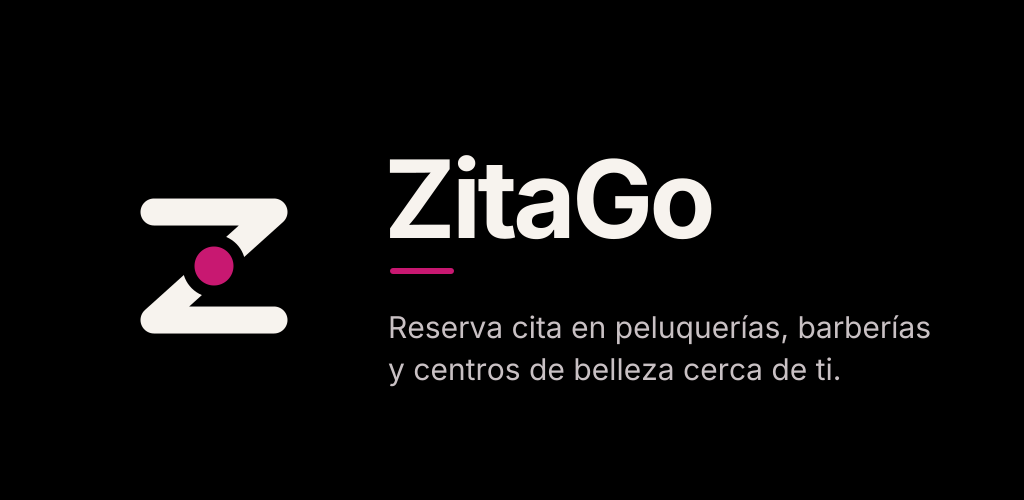
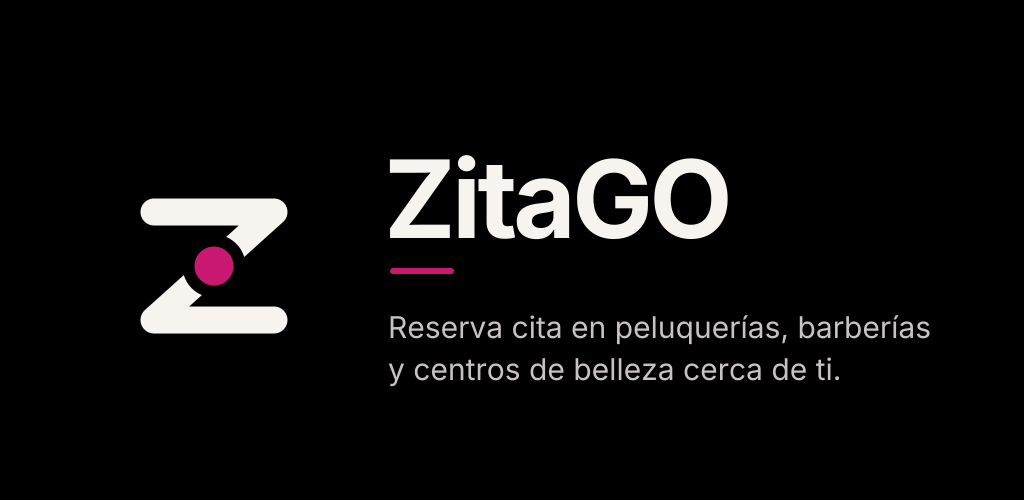
feat(brand): write the brand as ZitaGO on the landing page
The page title, header, button, copy and footer now say ZitaGO, and the
share image is the new Play feature graphic. Google Auth Platform checks
the brand name against this home page, so it changes first.

Changed region(s): [[0.625, 0.3, 0.7188, 0.48]]

diff --git a/index.html b/index.html
@@ -5,7 +5,7 @@
   <meta name="viewport" content="width=device-width, initial-scale=1">
   <!-- No scripts, no third parties: fonts and images come from this site only. -->
   <meta http-equiv="Content-Security-Policy" content="default-src 'none'; img-src 'self'; font-src 'self'; style-src 'unsafe-inline'; base-uri 'none'; form-action 'none'">
-  <title>ZitaGo · Reserva cita en peluquerías, barberías y spas</title>
+  <title>ZitaGO · Reserva cita en peluquerías, barberías y spas</title>
   <meta name="description" content="Busca la próxima hora libre de peluquerías, barberías, centros de uñas, estética y spas, y reserva al momento sin llamar.">
   <link rel="canonical" href="https://zitago.es/">
   <meta name="theme-color" content="#F7F3EE">
@@ -15,9 +15,9 @@
   <link rel="apple-touch-icon" href="apple-touch-icon.png">
   <meta property="og:type" content="website">
   <meta property="og:locale" content="es_ES">
-  <meta property="og:site_name" content="ZitaGo">
+  <meta property="og:site_name" content="ZitaGO">
   <meta property="og:url" content="https://zitago.es/">
-  <meta property="og:title" content="ZitaGo · Reserva cita en peluquerías, barberías y spas">
+  <meta property="og:title" content="ZitaGO · Reserva cita en peluquerías, barberías y spas">
   <meta property="og:description" content="Busca la próxima hora libre de cada negocio y reserva al momento, sin llamar.">
   <meta property="og:image" content="https://zitago.es/og-image.png">
   <meta property="og:image:width" content="1024">
@@ -174,13 +174,13 @@
 </head>
 <body>
   <header class="wrap top">
-    <a class="brand" href="/" aria-label="ZitaGo, inicio">
+    <a class="brand" href="/" aria-label="ZitaGO, inicio">
       <img src="favicon.svg" alt="" width="36" height="36">
-      <span>ZitaGo</span>
+      <span>ZitaGO</span>
     </a>
     <nav aria-label="Principal">
       <a class="nav-link" href="#negocios">Para negocios</a>
-      <a class="btn btn-dark btn-small" href="https://app.zitago.es/">Abrir ZitaGo</a>
+      <a class="btn btn-dark btn-small" href="https://app.zitago.es/">Abrir ZitaGO</a>
     </nav>
   </header>
 
@@ -189,7 +189,7 @@
       <div>
         <p class="kicker">Peluquería · Barbería · Uñas · Estética · Spa</p>
         <h1 id="hero-title">Busca la próxima hora libre y reserva al momento.</h1>
-        <p class="lead">ZitaGo te enseña cuándo puede atenderte cada negocio y te deja reservar en segundos, sin llamar y sin esperar a que te contesten. El servicio se paga en el negocio, como siempre.</p>
+        <p class="lead">ZitaGO te enseña cuándo puede atenderte cada negocio y te deja reservar en segundos, sin llamar y sin esperar a que te contesten. El servicio se paga en el negocio, como siempre.</p>
         <div class="actions">
           <a class="btn btn-dark" href="https://app.zitago.es/">Buscar cita</a>
           <a class="btn btn-line" href="#negocios">Tengo un negocio</a>
@@ -197,7 +197,7 @@
         <p class="fine">Funciona en el navegador del móvil y del ordenador. Las apps para Android e iPhone están en pruebas.</p>
       </div>
 
-      <div class="demo" role="img" aria-label="Ejemplo de reserva en ZitaGo: eliges una hora libre de hoy y la reserva queda confirmada.">
+      <div class="demo" role="img" aria-label="Ejemplo de reserva en ZitaGO: eliges una hora libre de hoy y la reserva queda confirmada.">
         <div class="card">
           <div class="cover"><span class="chip">Peluquería</span></div>
           <div class="card-body">
@@ -254,7 +254,7 @@
       <div class="wrap">
         <p class="kicker">Para negocios</p>
         <h2 id="business-title">Tu agenda, siempre en orden.</h2>
-        <p class="section-lead">Pon tus servicios, tu equipo y tus horarios. ZitaGo solo ofrece a tus clientes las horas que de verdad puedes atender.</p>
+        <p class="section-lead">Pon tus servicios, tu equipo y tus horarios. ZitaGO solo ofrece a tus clientes las horas que de verdad puedes atender.</p>
         <ul class="features">
           <li class="feature">
             <span class="icon"><svg viewBox="0 0 24 24"><path d="M12 3l7.5 3v6c0 4.4-3.2 8-7.5 9-4.3-1-7.5-4.6-7.5-9V6z"/><path d="M9 12l2 2 4-4"/></svg></span>
@@ -277,7 +277,7 @@
             <p>Hasta 5 negocios con la misma cuenta, cada uno con su equipo y su agenda.</p>
           </li>
         </ul>
-        <p class="reviewed"><svg viewBox="0 0 24 24"><circle cx="12" cy="12" r="9"/><path d="M8 12.2l2.8 2.8L16 9.8"/></svg>Revisamos cada negocio antes de que aparezca en ZitaGo.</p>
+        <p class="reviewed"><svg viewBox="0 0 24 24"><circle cx="12" cy="12" r="9"/><path d="M8 12.2l2.8 2.8L16 9.8"/></svg>Revisamos cada negocio antes de que aparezca en ZitaGO.</p>
         <div class="night-cta">
           <a class="btn btn-light" href="https://app.zitago.es/register?role=PROVIDER">Dar de alta mi negocio</a>
           <p>¿Prefieres que te lo enseñemos? <a href="mailto:hola@zitago.es">Escríbenos a hola@zitago.es</a></p>
@@ -289,9 +289,9 @@
   <footer class="wrap">
     <div class="foot">
       <div>
-        <a class="brand" href="/" aria-label="ZitaGo, inicio">
+        <a class="brand" href="/" aria-label="ZitaGO, inicio">
           <img src="favicon.svg" alt="" width="36" height="36">
-          <span>ZitaGo</span>
+          <span>ZitaGO</span>
         </a>
         <p>Reserva cita en peluquerías, barberías, centros de uñas, estética y spas de España.</p>
       </div>
@@ -305,7 +305,7 @@
         </ul>
       </nav>
     </div>
-    <p class="copy">© 2026 ZitaGo</p>
+    <p class="copy">© 2026 ZitaGO</p>
   </footer>
 </body>
 </html>

diff --git a/README.md b/README.md
@@ -3,7 +3,7 @@
 The site at `zitago.es` and `www.zitago.es`, served by GitHub Pages, which gives
 the custom domain a free HTTPS certificate. GitHub sends `www` to `zitago.es`.
 
-- `index.html` is a static landing page: what ZitaGo is, a button to the app and
+- `index.html` is a static landing page: what ZitaGO is, a button to the app and
   links to the privacy policy, the terms and the legal notice. It is the brand's
   home page in Google Auth Platform, which needs a page it can read without
   JavaScript (`app.zitago.es` is a single-page app). No scripts, no cookies, no
